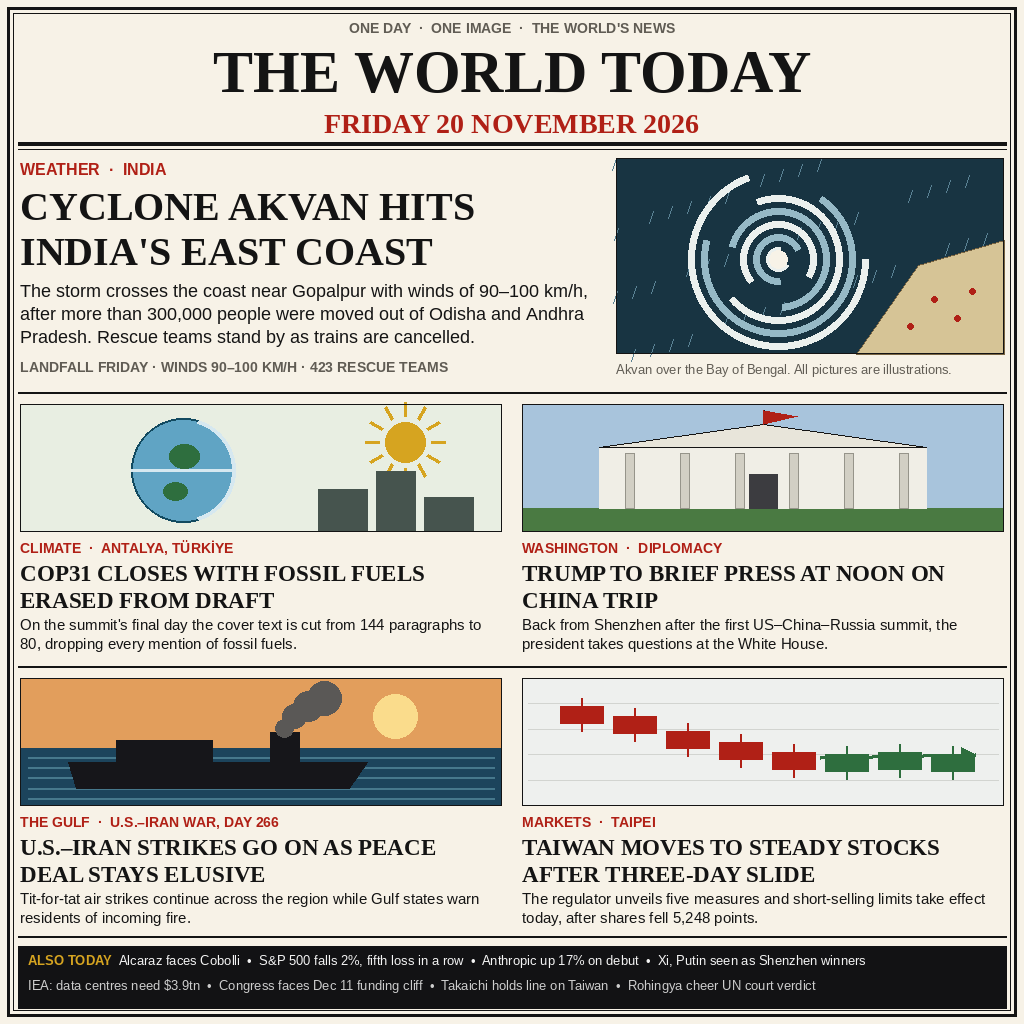
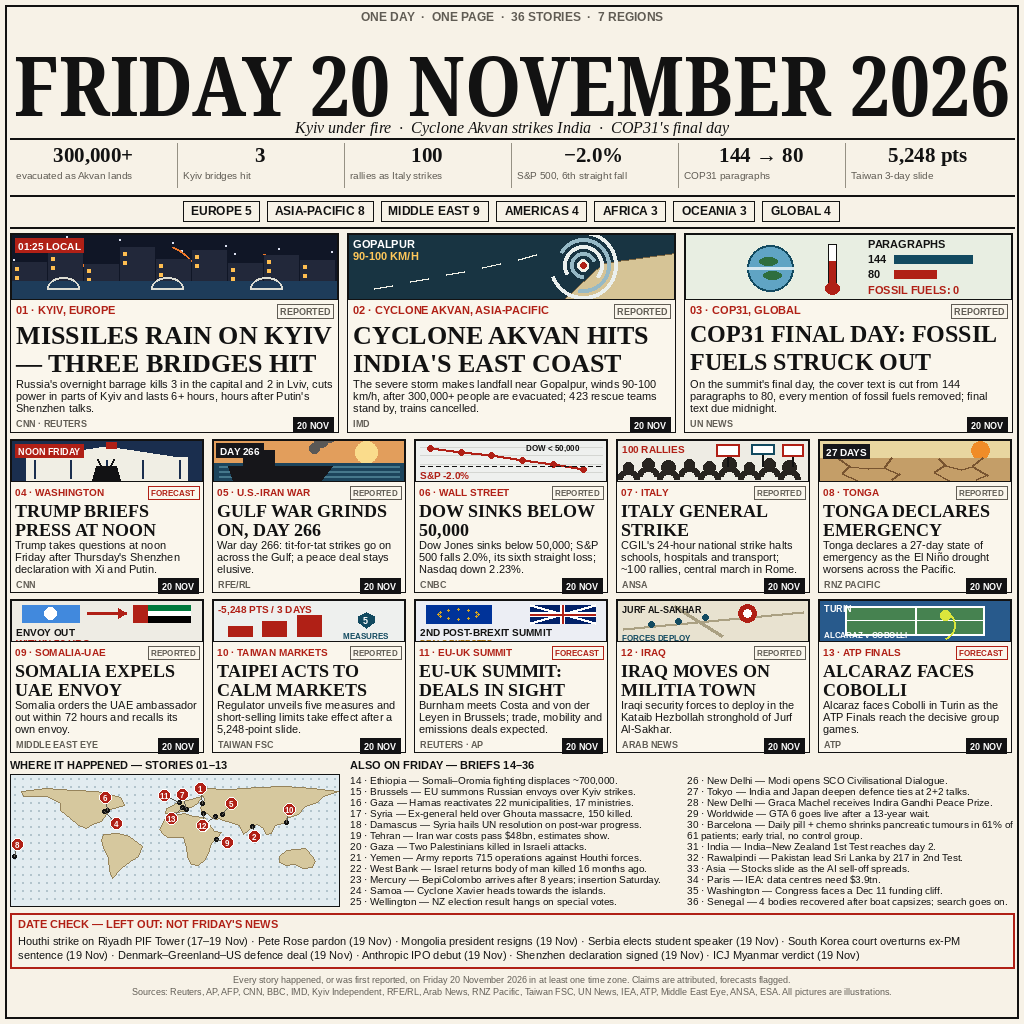
Add files via upload

diff --git a/main.ts b/main.ts
@@ -1,13 +1,15 @@
-// The World Today — 20 November 2026 front page (Node 22, stdlib only).
+// The World Today, round 2 — Friday 20 November 2026 (Node 22, stdlib only).
 //
-// The entry is the newspaper front page next to this file (entry.png,
-// 1024x1024): five verified stories from Friday 20 November 2026 —
-// Cyclone Akvan's landfall in Odisha, COP31's closing day in Antalya,
-// Trump's noon briefing on his China trip, the continuing U.S.–Iran
-// strikes in the Gulf, and Taiwan's market measures — plus an ALSO TODAY
-// ticker with eight more. The page was drawn with Python/PIL (see the
-// build script in the working directory, not part of this repo); every
-// picture on it is a drawn illustration, every word rendered as text.
+// The entry is the dense one-page newspaper next to this file (entry.png,
+// 1024x1024): 36 verified stories from Friday 20 November 2026 across 7
+// regions — three leads (Kyiv under missile fire, Cyclone Akvan's
+// landfall in Odisha, COP31's closing day in Antalya), ten feature cards,
+// 23 one-line briefs, a stat strip, a region tally, a dotted world map
+// with numbered pins, a DATE CHECK box of stories left out because they
+// happened 17-19 November, and a source footer. The page was drawn with
+// Python/PIL (see the build script in the working directory, not part of
+// this repo); every picture on it is a drawn illustration, every word
+// rendered as text, nothing copied from any other entry.
 //
 // This program only hands the finished image over: it reads entry.png,
 // checks it really is a PNG of at most 1 MiB, and writes those exact

diff --git a/README.md b/README.md
@@ -1,46 +1,29 @@
-# Sum up 20 November's world news in one image
+# The World Today — Friday 20 November 2026 (round 2)
 
-[![make.fun · news-image-20261120](https://make.fun/badge/news-image-20261120.svg)](https://make.fun/bounty/news-image-20261120)
-[![rank](https://make.fun/badge/news-image-20261120/vickyair1/news-image-20261120/rank.svg)](https://make.fun/bounty/news-image-20261120/leaderboard)
-[![reward](https://make.fun/badge/news-image-20261120/vickyair1/news-image-20261120/reward.svg)](https://make.fun/bounty/news-image-20261120)
+![make.fun](https://make.fun/badge/news-image-20261120.svg)
+![rank](https://make.fun/vickyair1/news-image-20261120/rank.svg)
+![reward](https://make.fun/vickyair1/news-image-20261120/reward.svg)
 
-Entry for the make.fun bounty [`news-image-20261120`](https://make.fun/bounty/news-image-20261120): a newspaper front page
-that sums up the world's news of **Friday 20 November 2026** in a single
-1024×1024 image.
+Entry for the [make.fun bounty "Sum up 20 November's world news in one image"](https://make.fun/c/news-image-20261120/) — one dense newspaper front page for Friday 20 November 2026.
 
-`main.ts` copies the bundled `entry.png` to `/output/entry.png` (or
-`$MAKEFUN_OUTPUT_DIR/entry.png` outside the grader). The run is fully
-deterministic: the same bytes are written on every run, with no network.
-The program checks the PNG signature and the 1 MiB size cap before copying,
-and verifies the copy is byte-identical to the source.
+## The page
 
-## What the image covers
+36 stories across 7 regions, all of them events that happened, or were first reported, on Friday 20 November 2026 in at least one time zone:
 
-- **Lead — Weather:** Cyclone Akvan hits India's east coast, crossing near
-  Gopalpur with winds of 90–100 km/h after more than 300,000 people were
-  moved out of Odisha and Andhra Pradesh.
-- **Climate:** COP31 closes in Antalya with fossil fuels erased from the
-  draft deal — the cover text cut from 144 paragraphs to 80.
-- **Washington:** Trump to brief the press at noon on his China trip, after
-  the first US–China–Russia summit in Shenzhen.
-- **The Gulf:** U.S.–Iran strikes go on as a peace deal stays elusive —
-  day 266 of the war.
-- **Markets:** Taiwan moves to steady stocks after a three-day slide of
-  5,248 points; short-selling limits take effect today.
-- **Also today:** Alcaraz faces Cobolli at the ATP Finals; the S&P 500
-  falls 2%, a fifth loss in a row; Anthropic up 17% on debut; Xi and Putin
-  seen as the Shenzhen winners; IEA data-centre demand; Congress and the
-  Dec 11 funding cliff; Takaichi on Taiwan; Rohingya cheer the UN court
-  verdict.
+- **3 leads** — Russia's overnight missile barrage on Kyiv (3 killed in the capital, three Dnipro bridges hit), Severe Cyclonic Storm Akvan's landfall near Gopalpur after 300,000+ evacuations, and COP31's final day in Antalya with fossil fuels struck from the text (144 → 80 paragraphs).
+- **10 features** — Trump's noon press briefing on the China trip, U.S.–Iran war day 266, the Dow sinking below 50,000, Italy's general strike, Tonga's drought emergency, Somalia expelling the UAE envoy, Taiwan's market measures, the EU–UK summit, Iraq's Jurf Al-Sakhar deployment, and Alcaraz v Cobolli at the ATP Finals.
+- **23 one-line briefs** (14–36), a stat strip, a region tally, a dotted world map with numbered pins for stories 01–13, a DATE CHECK box naming the stories deliberately left out (they happened 17–19 November), and a source footer.
 
-All facts were checked against reporting published on 20 November 2026
-(IMD, UN News, NY Post, CNN, RFE/RL, Reuters, AP and others). Every
-picture on the page is a drawn illustration; every word is rendered as
-crisp text, so nothing is garbled.
+Every picture is a PIL-drawn illustration — no photographs, no generated images — so no text is ever garbled. Claims are attributed; forecasts (Trump's noon briefing, the EU–UK summit deals, the ATP fixture) are flagged FORECAST.
 
-## Build
+## Files
 
-The page was composed with Python/PIL (`build_page.py` in the working
-directory, not part of this repo): masthead, two-column lead, four panels
-with drawn art strips, and the ALSO TODAY ticker. The entry itself is just
-the finished image plus this one-file copier.
+- `main.ts` — copies `entry.png` to the output directory (Node 22, stdlib only, deterministic: two runs write identical bytes).
+- `entry.png` — the front page, 1024×1024 PNG.
+- `LICENSE` — MIT.
+
+## Run
+
+```sh
+mkdir -p out && MAKEFUN_OUTPUT_DIR=out node main.ts
+```
